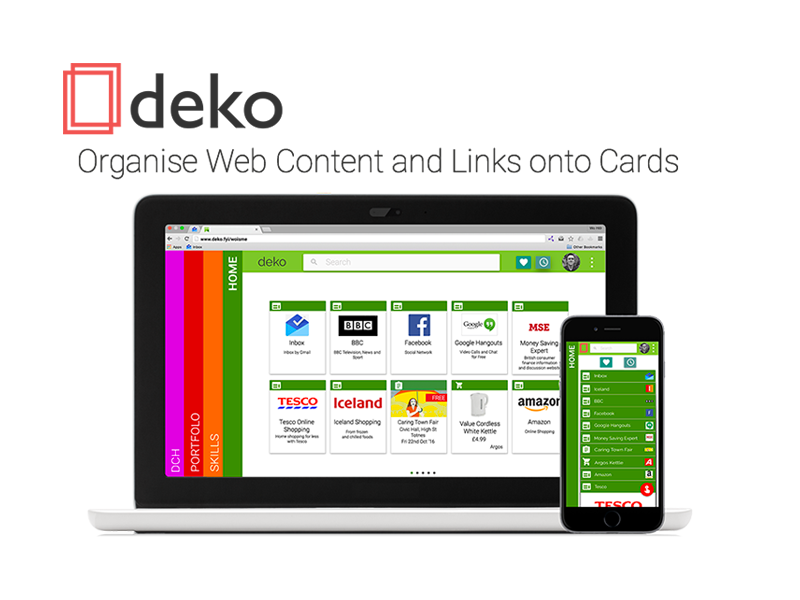
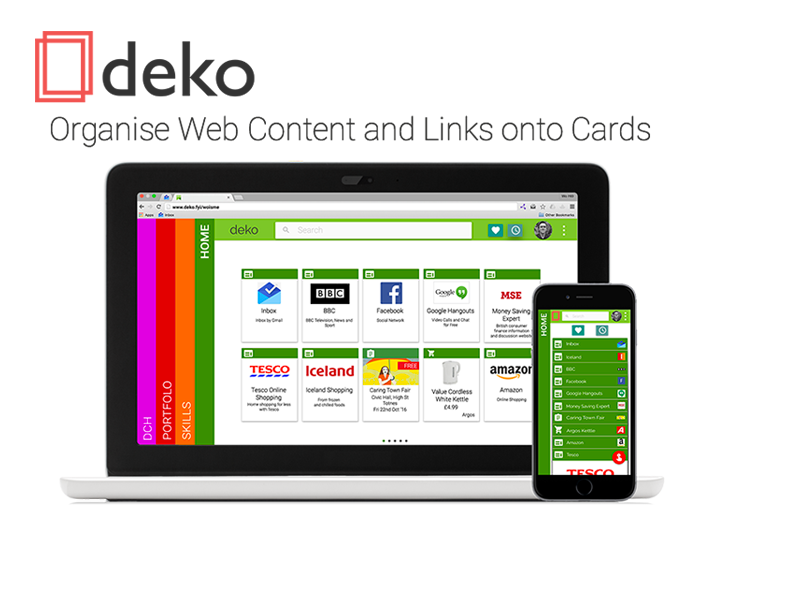
changes cards to work on more screens

diff --git a/src/my-view1.html b/src/my-view1.html
@@ -21,24 +21,21 @@
          --paper-card-header : {
           background-color: #fff;
         }
-        background: url(../images/deko-big-top.png) ; 
+        /*background: url(../images/deko-big-top.png) ; 
         -webkit-background-size: cover;
         -moz-background-size: cover;
         -o-background-size: cover;
-        background-size: cover;
+        background-size: cover;*/
         background-color: #fff;
       }
       #cta-card {
         height: 500px;
       }
       iron-image {
-        width: 268px;
+        width: 100%;
         height: 179px;
       }
-      .biggercard iron-image {
-       /*width: 600px;
-       height: 450px;*/
-      }
+      
     </style>
 
       <div class="bg">
@@ -47,7 +44,7 @@
           <!--First Card with Image of Screens-->
           <paper-card image="" elevation="1" animated-shadow="false" class="biggercard">   
             <div class="card-content">
-              <!--<iron-image src="../images/deko-big-top.png" preload sizing="cover"></iron-image>  -->
+              <iron-image src="../images/deko-big-top.png" preload sizing="contain"></iron-image>
             </div>
           </paper-card>
 
@@ -84,7 +81,7 @@
           <paper-card heading="For You" elevation="1" animated-shadow="false" class="smallercard">        
             <iron-icon icon="face" class="card-icon"></iron-icon>  
             <div class="card-content">          
-                <iron-image src="../images/avatars/lady-in-the-park.png" preload sizing="cover"></iron-image> 
+                <iron-image src="../images/avatars/lady-in-the-park.png" preload sizing="contain"></iron-image> 
               <p>Looking for a simple solution to organising, storing & sharing web content in one place? Use deko</p>
             </div>
             <div class="card-actions">
@@ -96,7 +93,7 @@
           <paper-card heading="For Loved Ones" elevation="1" animated-shadow="false" class="smallercard">
             <iron-icon icon="favorite" class="card-icon"></iron-icon>
             <div class="card-content">
-                <iron-image src="../images/avatars/loved-ones.png" preload sizing="cover"></iron-image> 
+                <iron-image src="../images/avatars/loved-ones.png" preload sizing="contain"></iron-image> 
               <p>Don’t have the time to be your parents tech. support? Solve the problem & your worries by using deko.</p>
             </div>
             <div class="card-actions">
@@ -108,7 +105,7 @@
           <paper-card heading="For Work" elevation="1" animated-shadow="false" class="smallercard">
             <iron-icon icon="social:domain" class="card-icon"></iron-icon> 
             <div class="card-content">
-                <iron-image src="../images/avatars/work-avatars.png" preload sizing="cover"></iron-image> 
+                <iron-image src="../images/avatars/work-avatars.png" preload sizing="contain"></iron-image> 
               <p>Create, organise & share curated content with colleagues. Sort onto cards then group
                  into decks.</p>
             </div>

diff --git a/src/shared-styles.html b/src/shared-styles.html
@@ -102,10 +102,17 @@
       .header title-text { 
         color: green;
       }
+      .biggercard iron-image {
+       width: 100%;
+       height: 500px;
+      }
        
       @media only screen and (max-device-width : 1200px)  {
         .biggercard {
           width: 90%;
+          height: 300px;
+        }
+        .biggercard iron-image {
           height: 300px;
         }
         .smallercard {
@@ -127,6 +134,7 @@
         paper-card p {
           font-size: 20px;
         }
+        
       }
      
 
